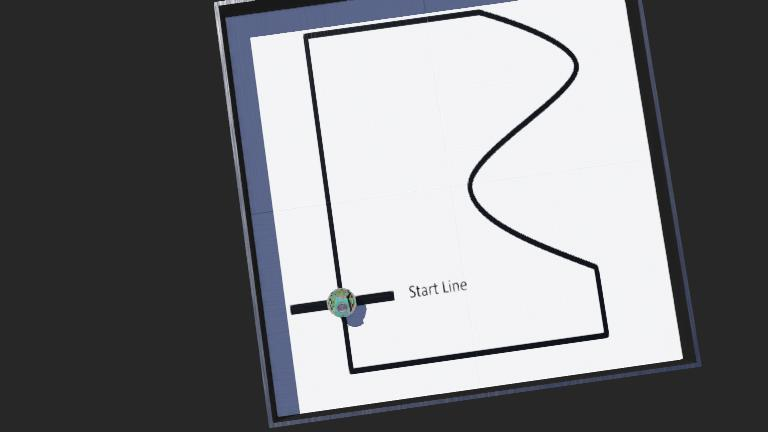
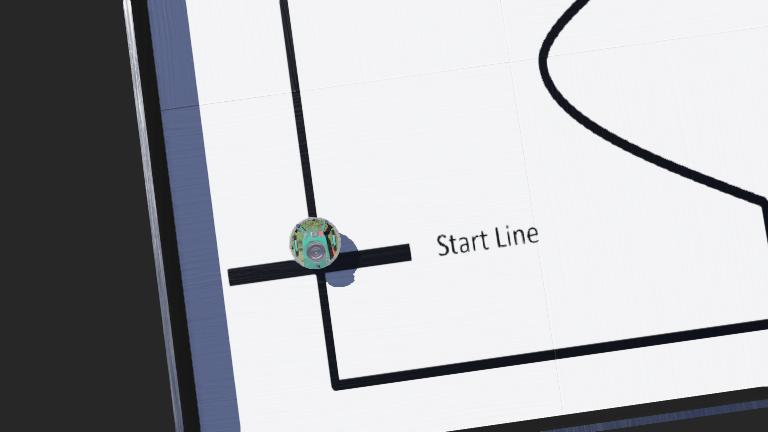
line following robot odometry assignment code added

diff --git a/courses/robotics_with_webots_coursera/week4/assignment/controllers/line_follow_controller/line_follow_controller.py b/courses/robotics_with_webots_coursera/week4/assignment/controllers/line_follow_controller/line_follow_controller.py
@@ -12,12 +12,13 @@ robot = Robot()
 timestep = int(robot.getBasicTimeStep())
 
 # get references to motors
-left_motor = robot.getDevice('left wheel motor')
-right_motor = robot.getDevice('right wheel motor')
+left_motor = robot.getDevice("left wheel motor")
+right_motor = robot.getDevice("right wheel motor")
 
 # set motors to velocity control
 left_motor.setPosition(float("inf"))
 right_motor.setPosition(float("inf"))
+
 
 # enable ground sensors
 def enable_sensors(sensor_prefix, num_sensors):
@@ -30,11 +31,12 @@ def enable_sensors(sensor_prefix, num_sensors):
         sensor = robot.getDevice(f"{sensor_prefix}{i}")
         sensor.enable(timestep)
         sensor_handles.append(sensor)
-     
+
     return sensor_handles
 
 
 ground_sensors = enable_sensors("gs", 3)
+
 
 def get_sensor_values(sensor_handles):
     """
@@ -46,45 +48,80 @@ def get_sensor_values(sensor_handles):
 
     return np.array(vals)
 
-MAX_SPEED = 3.14
-# previous_time = timestep
+# constants
+MAX_SPEED = 6.28
 r = 0.0201
 d = 0.052
-distances = 0
-rotations = 0
 delta_t = timestep / 1000
+START_POINT_COUNT = 4
 
+# buffer to note down corner counts
+all_dark = False
+all_dark_count = 0
+
+xytheta = np.array([0, 0.0, np.pi / 2.0, 1]).reshape(4, 1)
+
+phildot, phirdot = 0, 0
 # Main loop:
 # - perform simulation steps until Webots is stopping the controller
 while robot.step(timestep) != -1:
     # Read the sensors:
-    # Enter here functions to read sensor data, like:
-    #  val = ds.getValue()
     g = get_sensor_values(ground_sensors)
     print(g)
 
-    if (g[0] > 500 and g[1]<350 and g[2]>500): # drive straight
-        phildot, phirdot = MAX_SPEED, MAX_SPEED
-    # elif np.all(np.array(g) < 500):
-        # phildot, phirdot = 0.0, 0.0
-    elif(g[2]<550): # turn right
-        phildot, phirdot = 0.3 * MAX_SPEED, 0.02*MAX_SPEED
-    elif(g[0]<550): # turn right
-        phildot, phirdot = 0.02 * MAX_SPEED, 0.3*MAX_SPEED
+    # if only center ground sensor sees dark sport, move forward
+    if g[0] > 500 and g[1] < 350 and g[2] > 500:  
+        # drive straight
+        all_dark = False
+        if all_dark_count < 4:
+            phildot, phirdot = 0.8 * MAX_SPEED, 0.8* MAX_SPEED
 
-    
+    # if all center ground sensor see dark sport, decide between corner and starting point
+    elif g[0] < 350 and g[1] < 350 and g[2] < 350:
+        # if all the ground sensors sense values < 300, then either its a corner or starting point
+        if not all_dark:
+            # there are 3 corners, count the corner until stop
+            all_dark = True
+            all_dark_count += 1
+
+        # check if robot reached start point
+        if all_dark and all_dark_count >= START_POINT_COUNT:
+            phildot, phirdot = 0.4 * MAX_SPEED, 0.4 * MAX_SPEED
+
+    elif g[2] < 550:  
+        # if right sensor sees dark sport, turn right
+        all_dark = False
+        if all_dark_count < 4:
+            phildot, phirdot = 0.4 * MAX_SPEED, 0.005 * MAX_SPEED
+
+    elif g[0] < 550:  
+        # turn left if left sensor sees dark spot
+        all_dark = False
+        if all_dark_count < 4:
+            phildot, phirdot = 0.005 * MAX_SPEED, 0.4 * MAX_SPEED
+
+    # stop when the robot is at starting point
+    if not all_dark and all_dark_count >= START_POINT_COUNT:
+        phildot, phirdot = 0, 0
+
     left_motor.setVelocity(phildot)
     right_motor.setVelocity(phirdot)
-    # print(previous_time, timestep, previous_time-timestep)
 
-    distances += (r * delta_t * (phildot + phirdot) / 2.)
-    rotations += (r * delta_t * (phirdot - phildot) / d)
+    # calculate left wheel, right wheel distances travelled
+    d_r = r * phirdot * delta_t
+    d_l = r * phildot * delta_t
+    distance_travelled = (d_l + d_r) / 2.0
+    deltheta = (d_r - d_l) / d
 
-    print(distances, rotations)
-    # Process sensor data here.
+    # transform matrix
+    transform = np.eye(4)
+    transform[0, 3] = distance_travelled * np.cos(xytheta[2, 0] + deltheta / 2.0)
+    transform[1, 3] = distance_travelled * np.sin(xytheta[2, 0] + deltheta / 2.0)
+    transform[2, 3] = deltheta
 
-    # Enter here functions to send actuator commands, like:
-    #  motor.setPosition(10.0)
-    pass
+    xytheta = transform @ xytheta
 
-# Enter here exit cleanup code.
+    print(
+        f"x: {xytheta[0,0]:.03f}, y: {xytheta[1,0]:.03f}, theta: {xytheta[2,0]:.03f}, "
+        f"delta from origin {np.linalg.norm(xytheta[:2]) * 100:.03f} cm"
+    )
